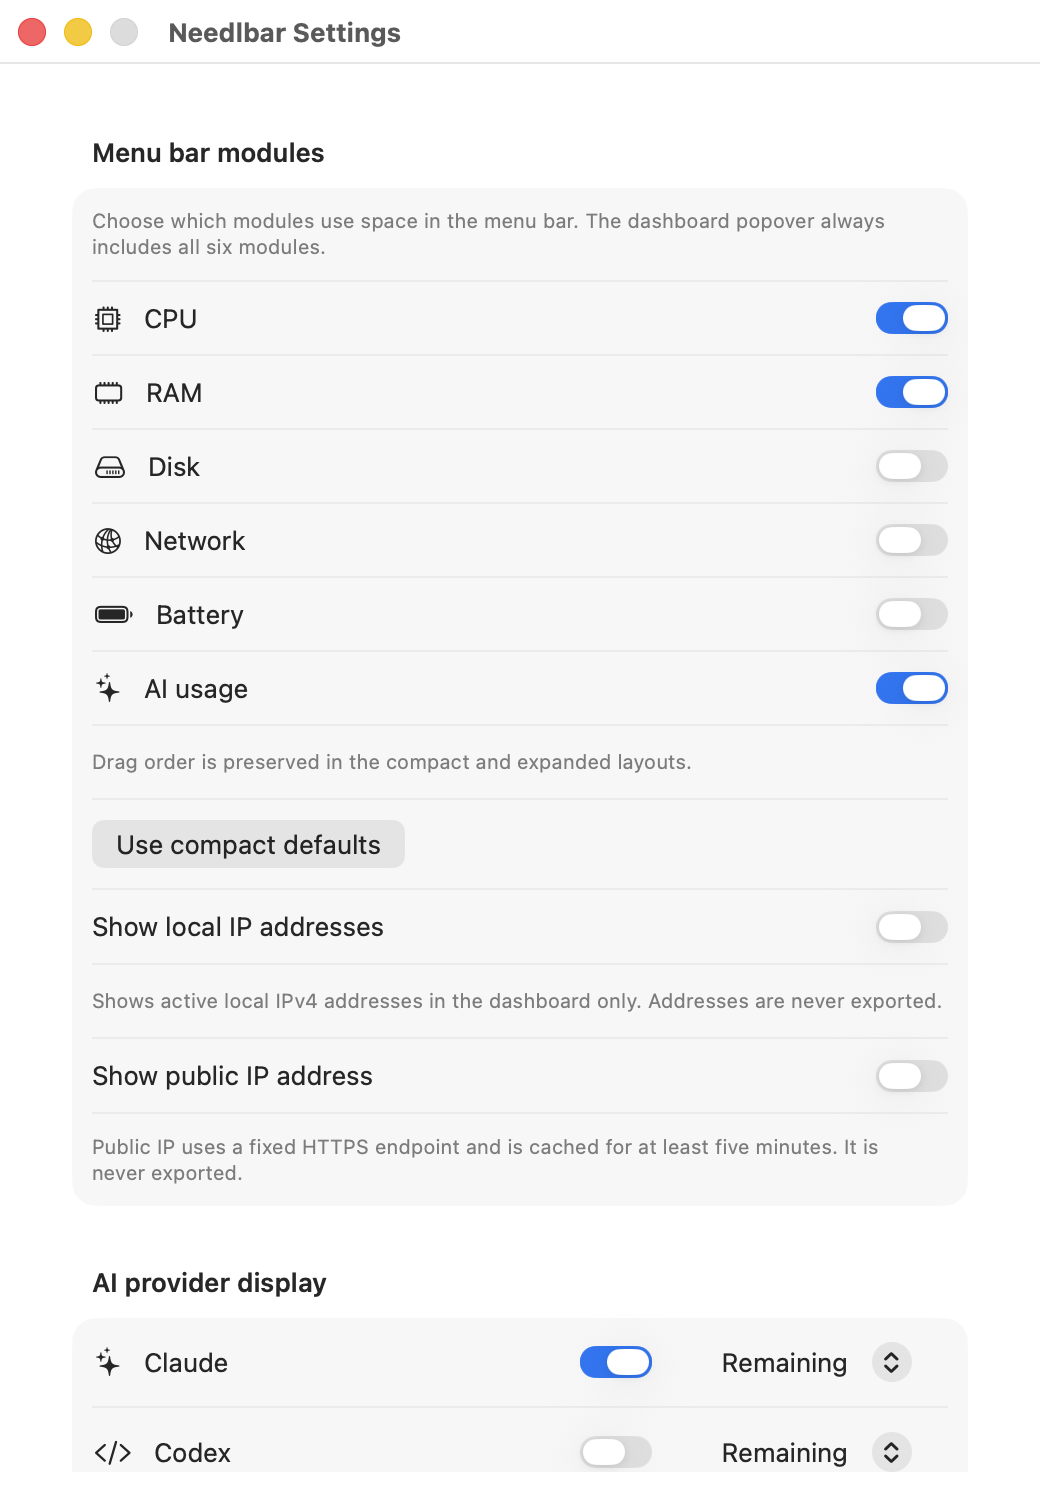
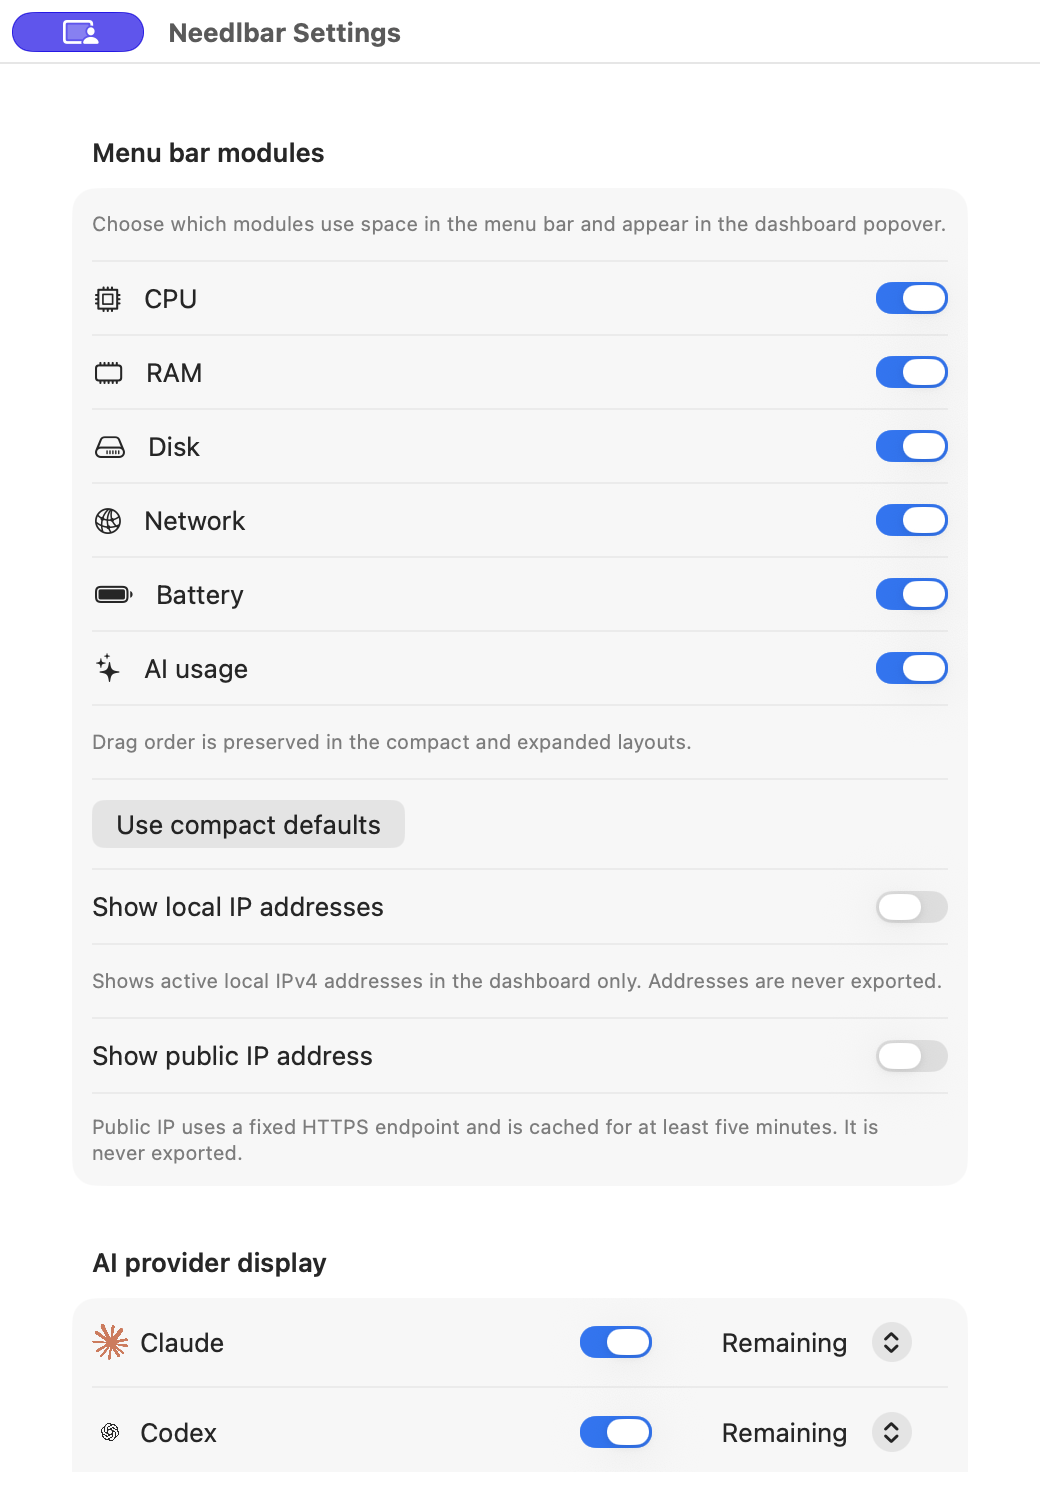
docs: refresh development dashboard visuals

diff --git a/README.md b/README.md
@@ -45,12 +45,16 @@ Settings controls visible modules and title metrics. Claude and Codex expose pro
 
 The main dashboard combines enabled CPU, RAM, disk, network, battery, and AI usage in a compact, content-sized popover. It grows to fit enabled rows when screen space permits, scrolls only when needed, uses aligned high-contrast values, hides normal freshness noise, and keeps stale or failed states visible without changing the underlying metrics or provider actions.
 
-<img src="docs/images/system-dashboard.png" alt="Needlbar development dashboard with system metrics and remaining AI quota" width="340" />
+<img src="docs/images/system-dashboard.png" alt="Needlbar development dashboard showing CPU, RAM, Disk, Network, Battery, and Claude, Codex, and Cursor AI usage with IP values hidden" width="312" />
 
-*Development build, not the public v0.2.2 artifact: values are native macOS examples, and provider visibility is configurable.*
+*Development build, not the public v0.2.2 artifact: values are native examples, provider visibility is configurable, and IP values are omitted.*
 
 AI summaries default to remaining subscription quota (the most constrained
-available window), not token totals. Saved metric selections are preserved;
+available window), not token totals.
+
+The dashboard uses the official Claude, OpenAI Blossom/Codex, and Cursor icons with centered provider-title alignment.
+
+Saved metric selections are preserved;
 tokens and estimated cost remain selectable in Settings. An unavailable quota
 is not replaced by a token count, and Cursor retains its Spending dashboard link.
 
@@ -91,11 +95,11 @@ status. Existing provider refresh and browser-login ownership is unchanged.
 
 ### Settings (v0.3 development build)
 
-<img src="docs/images/settings-modules.png" alt="Needlbar Settings showing module visibility and local and public IP controls" width="360" />
+<img src="docs/images/settings-modules.png" alt="Needlbar development Settings showing dashboard module visibility and disabled local and public IP controls" width="520" />
 
-<img src="docs/images/settings-providers.png" alt="Needlbar Settings showing provider visibility, Remaining pickers, and provider actions" width="360" />
+<img src="docs/images/settings-providers.png" alt="Needlbar development Settings showing Claude, Codex, and Cursor visibility, order, Remaining selections, and provider actions" width="520" />
 
-*Same development Settings window at upper and lower scroll positions; current settings were inspected without changes. Provider rows show Remaining, and local/public IP remain off.*
+*Same development Settings window at upper and lower scroll positions; module and provider display controls are configurable, all provider rows use Remaining for this capture, and local/public IP display is off.*
 
 ### Local snapshot export
 
